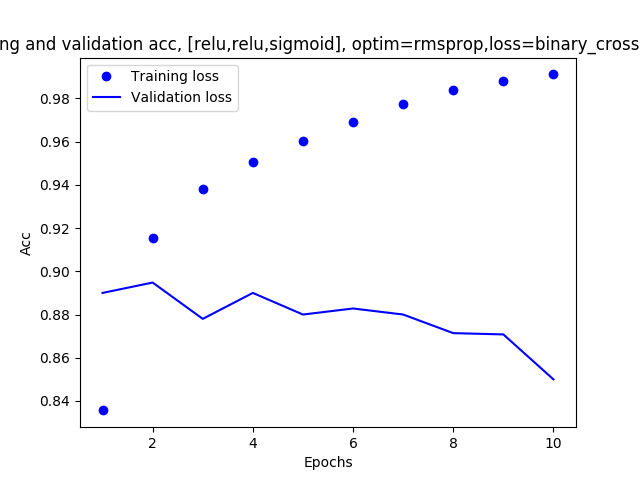
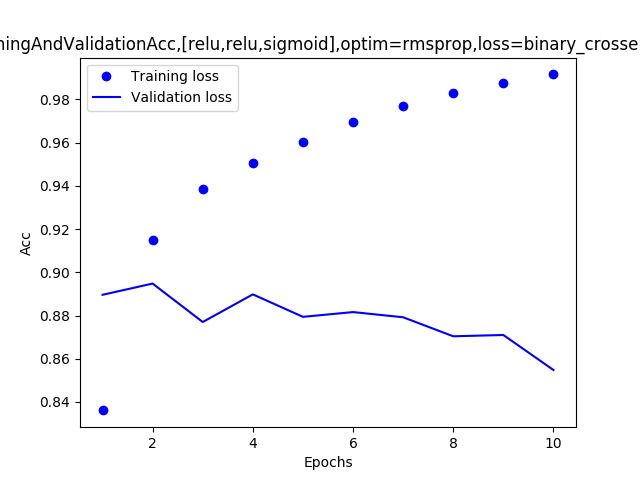
work on classification

diff --git a/imdbdataset.py b/imdbdataset.py
@@ -1,0 +1,99 @@
+from keras.datasets import imdb
+import numpy as np
+
+from keras import losses
+from keras import backend as K
+tv = K.variable(np.array([[1]]))
+pv = K.variable(np.array([[1.2]]))
+
+
+print(K.eval(losses.mean_squared_error(tv,pv)))
+print(K.eval(losses.binary_crossentropy(tv,pv)))
+
+
+(train_data, train_labels), (test_data, test_labels) = imdb.load_data(num_words=10000)
+
+print(train_labels[4])
+exit()
+
+def vectorize_sequences(sequences, dimension = 10000):
+    res = np.zeros((len(sequences), dimension))
+    for i, sequence in enumerate(sequences):
+        res[i, sequence] = 1
+    return res
+print("train data dim {} shape {}".format(train_data.ndim,train_data.shape))
+print("train labels dim {} shape {}".format(train_labels.ndim,train_labels.shape))
+print("test data dim {} shape {}".format(test_data.ndim,test_data.shape))
+print("test labels dim {} shape {}".format(test_labels.ndim,test_labels.shape))
+
+print (len(train_data))
+for i in range(10):
+    print(len(train_data[i]))
+    print(train_labels[i])
+print('number of word:',max([max(sequence) for sequence in train_data]))
+
+print('max review len:',max([len(sequence) for sequence in train_data]))
+
+word_index = imdb.get_word_index()
+x = word_index["go"]
+print(x)
+reverse_word_index = dict([(value, key) for (key, value) in word_index.items()])
+print(reverse_word_index[x])
+print(reverse_word_index[1])
+print(reverse_word_index[2])
+
+decoded_review = ''.join([(reverse_word_index.get(i, '?') + ' ') for i in train_data[0]])
+print (decoded_review)
+
+x_train = vectorize_sequences(train_data)
+print(x_train[0])
+x_test = vectorize_sequences(test_data)
+
+y_train = np.asarray(train_labels).astype('float32')
+y_test = np.asarray(test_labels).astype('float32')
+
+
+from keras import models
+from keras import layers
+
+model = models.Sequential()
+model.add(layers.Dense(16, activation='relu', input_shape=(10000,)))
+model.add(layers.Dense(16, activation='relu'))
+model.add(layers.Dense(1, activation='sigmoid'))
+model.compile(optimizer='rmsprop', loss='binary_crossentropy', metrics=['accuracy'])
+
+partial_x_train = x_train[:10000]
+val_x_train = x_train[10000:]
+partial_y_train = y_train[:10000]
+val_y_train = y_train[10000:]
+
+history = model.fit(partial_x_train,partial_y_train,
+                    epochs=10, batch_size=256,validation_data=(val_x_train,val_y_train))
+
+import matplotlib.pyplot as plt
+history_dict = history.history
+loss_values = history_dict['loss']
+val_loss_values = history_dict['val_loss']
+epochs = range(1, 10 + 1)
+plt.plot(epochs, loss_values, 'bo', label='Training loss')
+plt.plot(epochs, val_loss_values, 'b', label='Validation loss')
+plt.title('Training and validation loss')
+plt.xlabel('Epochs')
+plt.ylabel('Loss')
+plt.legend()
+# plt.show()
+# plt.clf()
+
+acc_values = history_dict['acc']
+val_acc_values = history_dict['val_acc']
+plt.plot(epochs, acc_values, 'bo', label='Training acc')
+plt.plot(epochs, val_acc_values, 'b', label='Validation acc')
+plt.title('Training and validation accuracy')
+plt.xlabel('Epochs')
+plt.ylabel('Loss')
+plt.legend()
+# plt.show()
+
+predicted = model.predict(x_test[:10])
+
+print(predicted,y_test[:10])

diff --git a/BinaryClassification/ImdbDataSet2Output.py b/BinaryClassification/ImdbDataSet2Output.py
@@ -14,11 +14,18 @@ def vectorize_sequences(sequences, dimension = 10000):
     for i, sequence in enumerate(sequences):
         res[i, sequence] = 1
     return res
-
+def vectorize_labels(labels):
+    res = np.zeros((len(labels), 2))
+    for l in range(len(labels)):
+        if labels[l] < 0.5:
+            res[l][0] = 1
+        else:
+            res[l][1] = 1
+    return res
 x_train = vectorize_sequences(train_data)
 x_test = vectorize_sequences(test_data)
-y_train = np.asarray(train_labels).astype('float32')
-y_test = np.asarray(test_labels).astype('float32')
+y_train = vectorize_labels(train_labels)#np.asarray(train_labels).astype('float32')
+y_test = vectorize_labels(test_labels)#np.asarray(test_labels).astype('float32')
 x_val = x_train[20000:]
 y_val = y_train[20000:]
 x_train = x_train[:20000]
@@ -27,12 +34,12 @@ y_train = y_train[:20000]
 from keras import models
 from keras import layers
 
-layer_activ = ['relu', 'relu', 'sigmoid']
+layer_activ = ['relu', 'relu', 'softmax']
 optim_loss = ['rmsprop', 'binary_crossentropy']
 model = models.Sequential()
 model.add(layers.Dense(16, activation=layer_activ[0], input_shape=(10000,)))
 model.add(layers.Dense(16, activation=layer_activ[1]))
-model.add(layers.Dense(1, activation=layer_activ[2]))
+model.add(layers.Dense(2, activation=layer_activ[2]))
 model.compile(optimizer=optim_loss[0], loss=optim_loss[1], metrics=['accuracy'])
 epoch_number = 10
 history = model.fit(x_train,y_train,epochs=epoch_number, batch_size=256,validation_data=(x_val,y_val))
@@ -44,7 +51,7 @@ val_loss_values = history_dict['val_loss']
 epochs = range(1, epoch_number + 1)
 plt.plot(epochs, loss_values, 'bo', label='Training loss')
 plt.plot(epochs, val_loss_values, 'b', label='Validation loss')
-fname = 'TrainingAndValidationLoss,[{},{},{}],optim={},loss={}'.format(layer_activ[0],layer_activ[1],layer_activ[2],optim_loss[0],optim_loss[1])
+fname = 'TrainingAndValidationLoss2out,[{},{},{}],optim={},loss={}'.format(layer_activ[0],layer_activ[1],layer_activ[2],optim_loss[0],optim_loss[1])
 plt.title(fname)
 plt.xlabel('Epochs')
 plt.ylabel('Loss')
@@ -61,7 +68,7 @@ val_loss_values = history_dict['val_acc']
 epochs = range(1, epoch_number + 1)
 plt.plot(epochs, loss_values, 'bo', label='Training loss')
 plt.plot(epochs, val_loss_values, 'b', label='Validation loss')
-fname = 'TrainingAndValidationAcc,[{},{},{}],optim={},loss={}'.format(layer_activ[0],layer_activ[1],layer_activ[2],optim_loss[0],optim_loss[1])
+fname = 'TrainingAndValidationAcc2out,[{},{},{}],optim={},loss={}'.format(layer_activ[0],layer_activ[1],layer_activ[2],optim_loss[0],optim_loss[1])
 plt.title(fname)
 plt.xlabel('Epochs')
 plt.ylabel('Acc')

diff --git a/numpytest.py b/numpytest.py
@@ -2,3 +2,55 @@ import numpy as np
 
 x = np.array(12)
 print (x,x.ndim,x.shape)
+print(len(x.shape))
+
+x = np.array([1,2,3])
+print (x,x.ndim,x.shape)
+print(len(x.shape))
+
+x = np.array([[1,2,3],[4,5,6]])
+print (x,x.ndim,x.shape)
+print(len(x.shape))
+
+x = x.reshape((1,6))
+print (x,x.ndim,x.shape)
+print(len(x.shape))
+
+x = x.reshape((6))
+print (x,x.ndim,x.shape)
+print(len(x.shape))
+
+digit = np.array([[0,0,0],[0,0.5,1],[0,0,0]])
+import matplotlib.pyplot as plt
+plt.imshow(digit, cmap=plt.cm.binary)
+# plt.show()
+#----------------------------------------
+x = np.array([[[1, 1, 1], [1, 1, 1], [1, 1, 1]], [[2.1, 2.2, 2.3], [2.4, 2.5, 2.6], [2.7, 2.8, 2.9]], [[3, 3, 3], [3, 3, 3], [3, 3, 3]], [[4, 4, 4], [4, 4, 4], [4, 4, 4]]])
+print (x.ndim, x.shape)
+
+y = x[1:3]
+print (y, y.ndim, y.shape)
+
+y = x[1:3, 0:2, 0:3]
+print (y, y.ndim, y.shape)
+
+rn = np.random.random((2,3,2))
+print(rn)
+
+x = np.array([[[1,1],[1,1]],[[5,2],[3,3]]])
+print (x)
+y = np.array([[2,2],[3,3]])
+print (y)
+z = np.maximum(x,y)
+print(z)
+
+x = np.array([[1,2,3],[0,0,0]])
+y = np.array([4,2,4])
+print (x.shape)
+x[1] += y[1]
+print (x)
+
+x = np.array([1,1,1])
+y = np.array(2)
+z = np.dot(x,y)
+print (z)

diff --git a/ker.py b/ker.py
@@ -1,0 +1,12 @@
+from keras import models
+from keras import layers
+import numpy as np
+
+models.InputLayer
+model = models.Sequential()
+model.add(layers.Dense(32, input_shape=(10,)))
+model.add(layers.Dense(5))
+x = model.predict(np.array([[1,1,1,1,1,2,2,2,2,2],[1,1,1,1,1,2,2,2,2,2]]))
+
+print (x)
+
